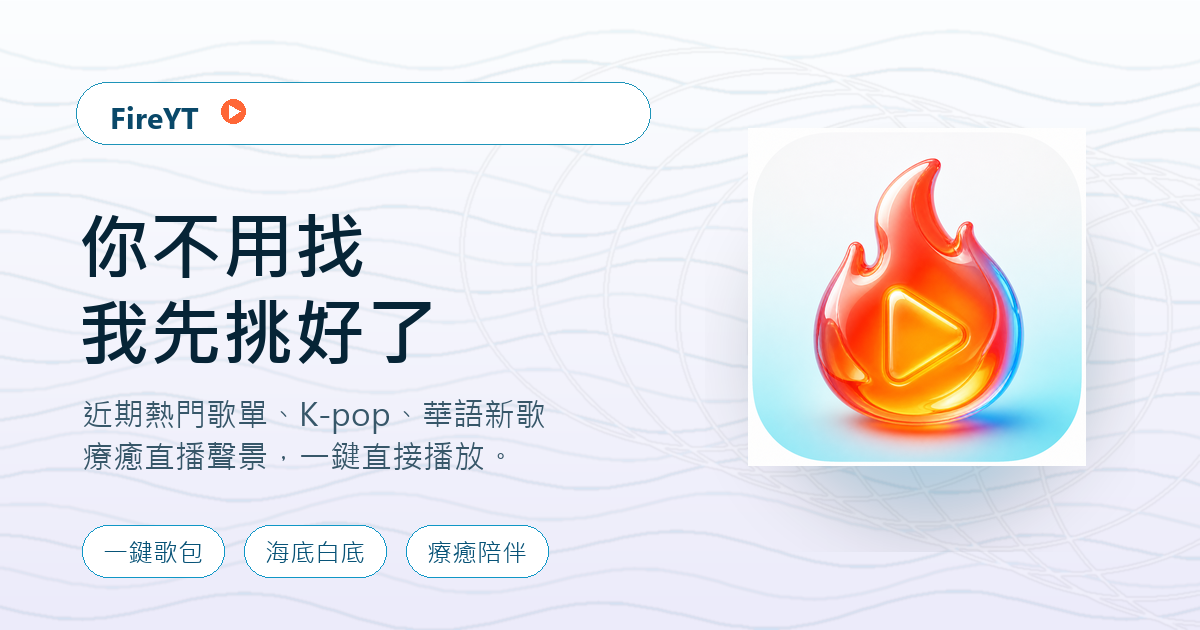
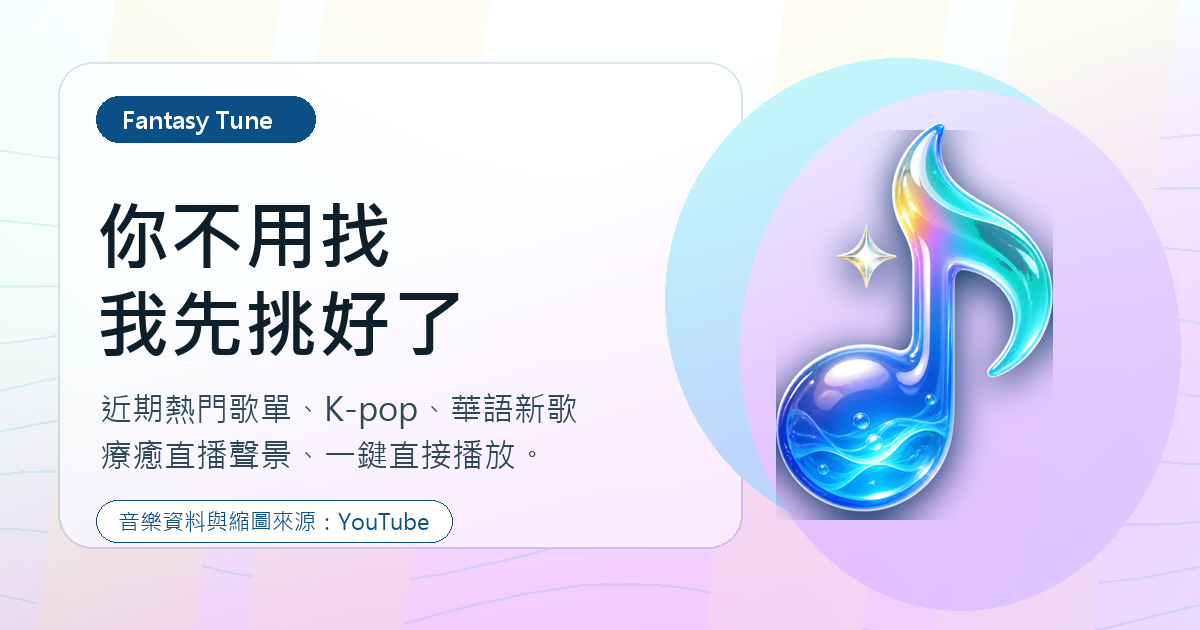
Update Open Graph preview tags

diff --git a/privacy.html b/privacy.html
@@ -9,12 +9,26 @@
     />
     <meta name="theme-color" content="#f8fdff" />
     <meta property="og:type" content="website" />
+    <meta property="og:locale" content="zh_TW" />
     <meta property="og:site_name" content="Fantasy Tune" />
+    <meta property="og:url" content="https://fantasy-76930.github.io/FireYT/privacy.html" />
     <meta property="og:title" content="Fantasy Tune 隱私權政策" />
     <meta
       property="og:description"
       content="Fantasy Tune 不提供登入功能，僅整理公開 YouTube 連結，並使用第三方到訪計數服務。"
     />
+    <meta property="og:image" content="https://fantasy-76930.github.io/FireYT/assets/og-image.png" />
+    <meta property="og:image:width" content="1200" />
+    <meta property="og:image:height" content="630" />
+    <meta property="og:image:alt" content="Fantasy Tune 隱私權政策與 YouTube API Services 說明" />
+    <meta name="twitter:card" content="summary_large_image" />
+    <meta name="twitter:title" content="Fantasy Tune 隱私權政策" />
+    <meta
+      name="twitter:description"
+      content="Fantasy Tune 不提供登入功能，僅整理公開 YouTube 連結，並使用第三方到訪計數服務。"
+    />
+    <meta name="twitter:image" content="https://fantasy-76930.github.io/FireYT/assets/og-image.png" />
+    <meta name="twitter:image:alt" content="Fantasy Tune 隱私權政策與 YouTube API Services 說明" />
     <title>Fantasy Tune 隱私權政策</title>
     <link rel="manifest" href="./manifest.webmanifest" />
     <link rel="icon" href="./assets/favicon.ico" sizes="any" />

diff --git a/index.html b/index.html
@@ -9,6 +9,7 @@
     />
     <meta name="theme-color" content="#f8fdff" />
     <meta property="og:type" content="website" />
+    <meta property="og:locale" content="zh_TW" />
     <meta property="og:site_name" content="Fantasy Tune" />
     <meta property="og:url" content="https://fantasy-76930.github.io/FireYT/" />
     <meta property="og:title" content="Fantasy Tune - 你不用找，我先挑好了" />
@@ -19,6 +20,7 @@
     <meta property="og:image" content="https://fantasy-76930.github.io/FireYT/assets/og-image.png" />
     <meta property="og:image:width" content="1200" />
     <meta property="og:image:height" content="630" />
+    <meta property="og:image:alt" content="Fantasy Tune 奇幻之音，近期熱門歌單與療癒直播聲景一鍵播放" />
     <meta name="twitter:card" content="summary_large_image" />
     <meta name="twitter:title" content="Fantasy Tune - 你不用找，我先挑好了" />
     <meta
@@ -26,6 +28,7 @@
       content="近期熱門歌單、K-pop、華語新歌、療癒直播聲景，一鍵直接播放。"
     />
     <meta name="twitter:image" content="https://fantasy-76930.github.io/FireYT/assets/og-image.png" />
+    <meta name="twitter:image:alt" content="Fantasy Tune 奇幻之音，近期熱門歌單與療癒直播聲景一鍵播放" />
     <title>Fantasy Tune - 你不用找，我先挑好了</title>
     <link rel="manifest" href="./manifest.webmanifest" />
     <link rel="icon" href="./assets/favicon.ico" sizes="any" />

diff --git a/service-worker.js b/service-worker.js
@@ -1,4 +1,4 @@
-const CACHE_NAME = "fantasy-tune-v20";
+const CACHE_NAME = "fantasy-tune-v21";
 const APP_SHELL = [
   "./",
   "./index.html",